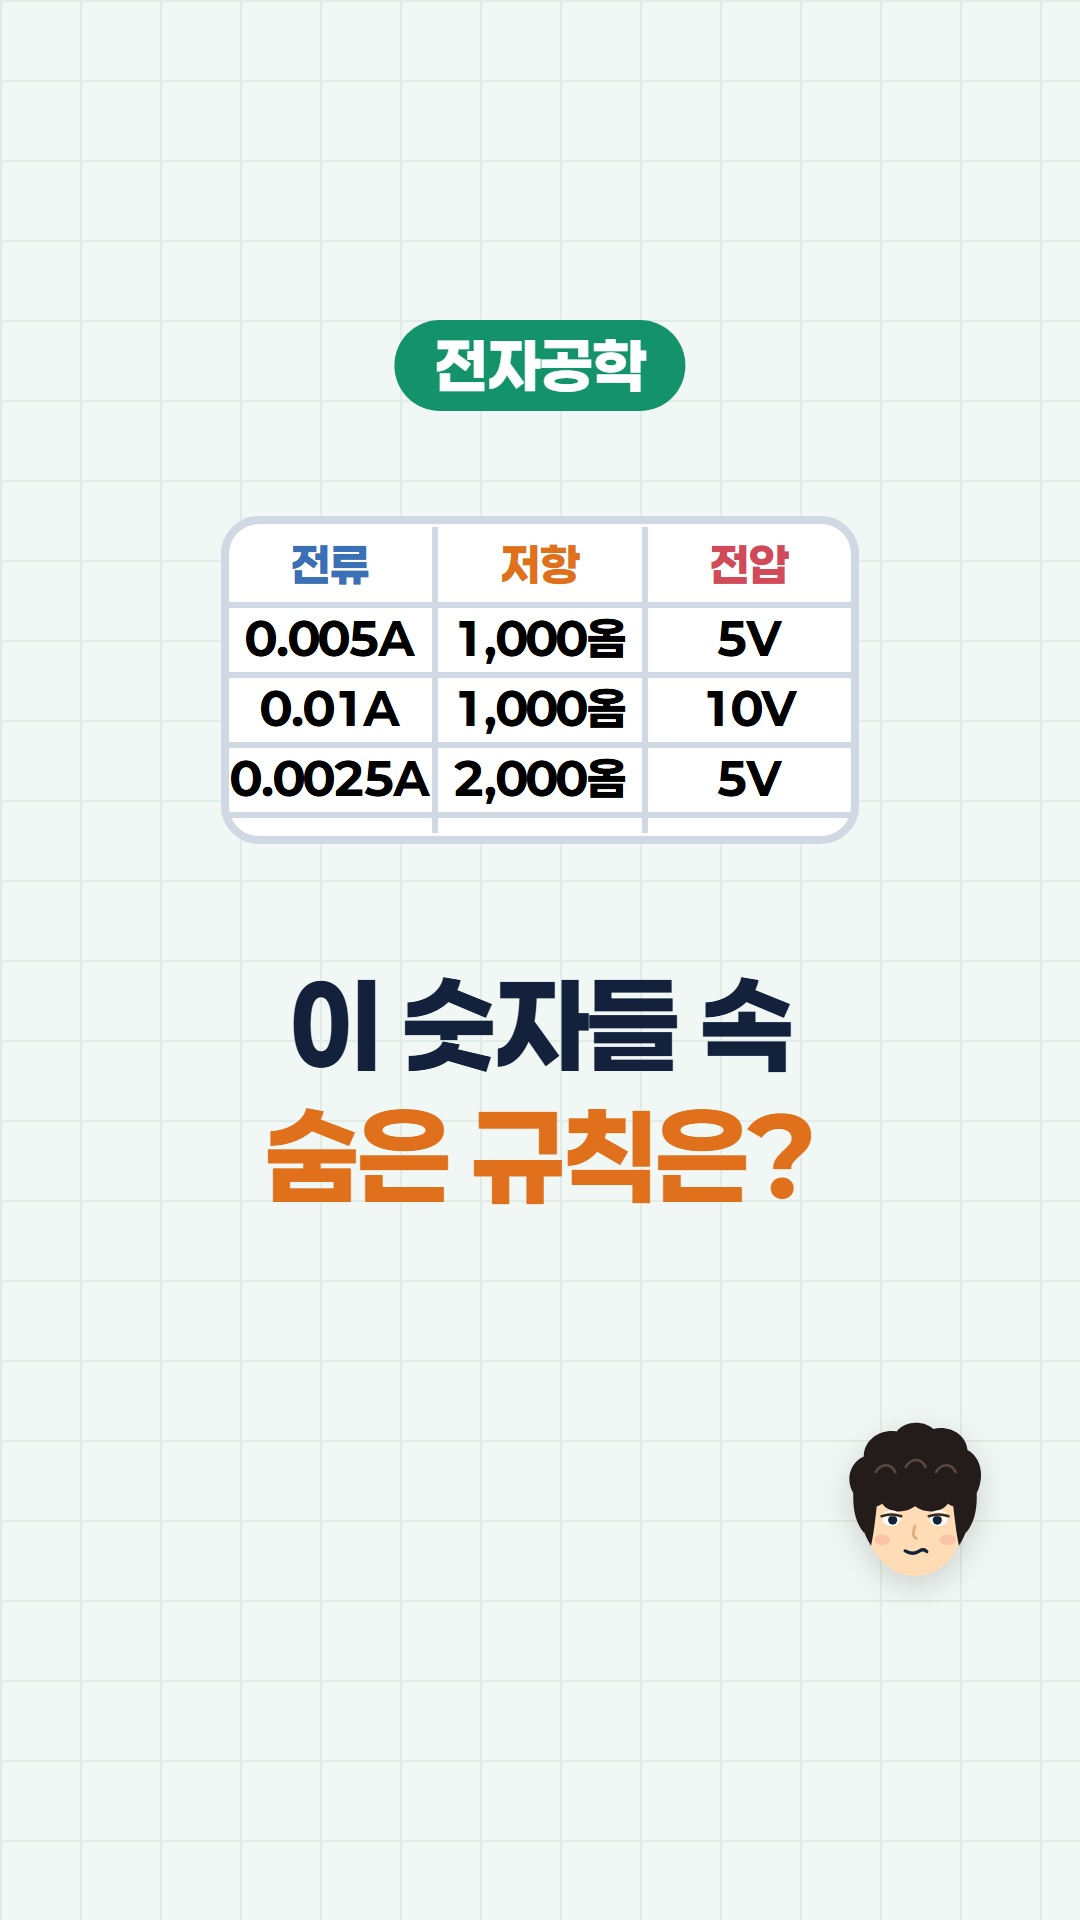
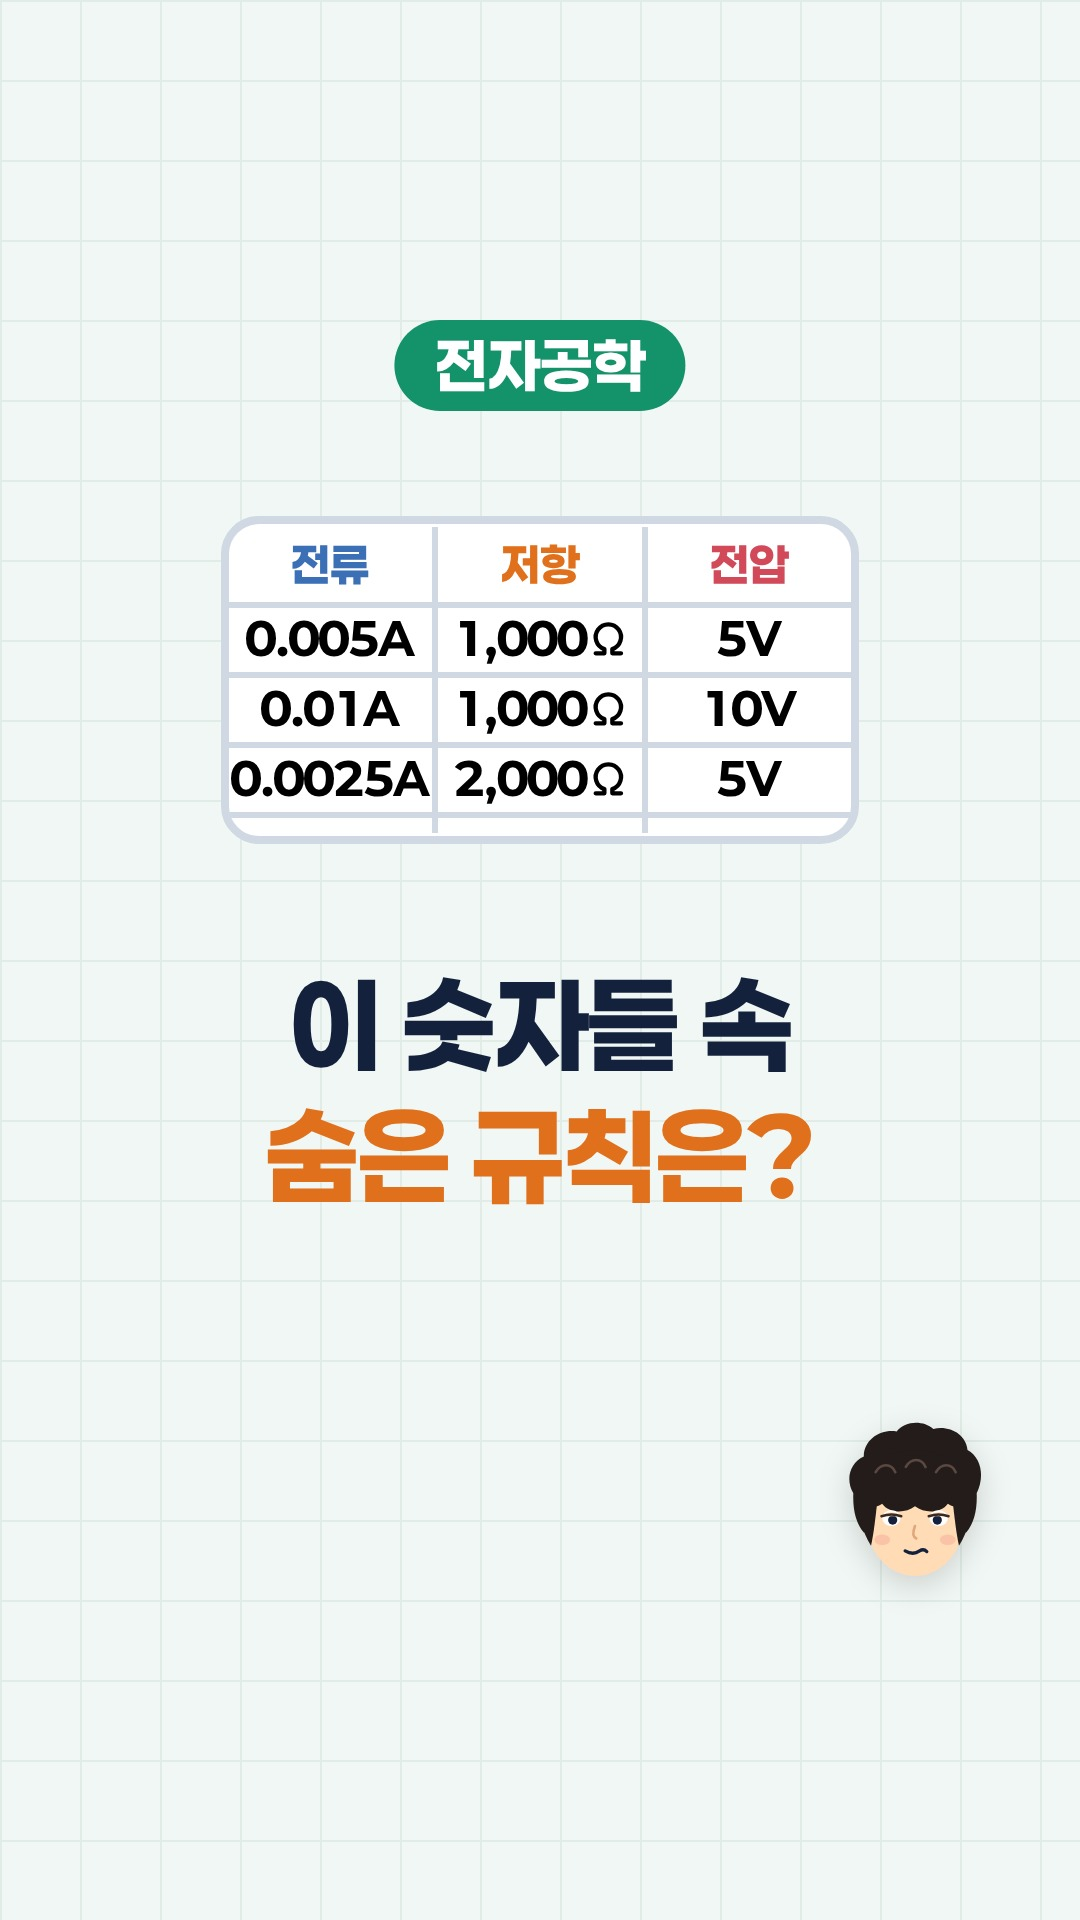
업로드 도구: 채널 홈 섹션 순서 자동 맞춤(--섹션), 120 화면·쇼츠 옴 기호 소문자 kΩ, 썸네일 갱신
Claude-Session: https://claude.ai/code/session_01DR6nsVqmKKmMzArsii1Tyf

diff --git a/tools/video/youtube_upload.py b/tools/video/youtube_upload.py
@@ -5,7 +5,8 @@
   설명 안의 {long} 같은 표시는 앞서 올린 영상 주소로 바뀐다(쇼츠 설명에 롱폼 주소 넣기).
 - 결과(영상 ID·주소)는 같은 파일의 "결과"에 적는다. 이미 올린 키는 다시 올리지 않는다.
 - "썸네일": jpg 경로를 주면 롱폼에 넣는다(채널 인증 필요, 2MB 이하).
-- "재생목록": 강좌 폴더 이름을 주면 과목 재생목록(예: 인공지능)에 강좌 번호 순서로 넣는다(롱폼만).
+- "재생목록": 강좌 폴더 이름을 주면 과목 재생목록(예: 인공지능)에 강좌 번호 순서로 넣는다(롱폼만). 넣은 뒤 채널 홈 섹션 순서도 맞춘다(arrange_sections).
+- 채널 홈 섹션 순서만 맞추기: python3 tools/video/youtube_upload.py --섹션
 - "설명"을 고치고 다시 돌리면 올린 영상의 설명만 바뀐다. "댓글"이 있으면 영상마다 한 번 댓글을 단다(고정은 스튜디오에서 직접).
 - AI 사용 표시(containsSyntheticMedia)는 업로드 때 켠다. GET 응답에는 이 값이 안 나오므로, 나중에 status를 PUT할 때는 반드시 containsSyntheticMedia: true를 함께 보낸다(빠뜨리면 꺼질 수 있음).
 - "공개": "지금"이면 올리자마자 공개, "2026-11-06T10:00:00Z" 같은 시각이면 그때 공개되게 예약, 없으면 비공개.
@@ -144,6 +145,56 @@ def playlist_place(folder_name, vid):
     return pl["id"], pos
 
 
+SUBJECT_ORDER = ["인공지능", "전자공학", "생활 기기", "전자 부품"]   # 채널 홈 과목 섹션 순서(팀장님 2026-11-10). 새 과목은 재생목록.json에 생긴 순서대로 이 뒤에
+
+
+def arrange_sections():
+    """채널 홈 섹션 순서 맞추기(팀장님 2026-11-14 「재생목록 만들 때 위치까지 보정」).
+    과목 재생목록 섹션을 SUBJECT_ORDER 순으로 맨 위에, 그 뒤에 동영상(recentUploads)·Shorts 등 나머지를 원래 순서로.
+    공개된 과목 재생목록인데 섹션이 없으면 새로 만든다(새 섹션은 맨 아래에 생기므로 바로 이어서 순서를 맞춤).
+    맨 위 소개 영상(채널 예고편)은 섹션 목록 밖이라 건드리지 않는다."""
+    reg = json.load(open(PL_REG, encoding="utf-8")) if os.path.exists(PL_REG) else {}
+    subjects = [x for x in SUBJECT_ORDER if x in reg] + [x for x in reg if x not in SUBJECT_ORDER]
+    pl_of = {reg[x]["id"]: x for x in subjects}
+    items = api("GET", "channelSections?part=snippet,contentDetails&mine=true").get("items", [])
+    have = {tuple(it.get("contentDetails", {}).get("playlists") or []) for it in items}
+    for subj in subjects:
+        pid = reg[subj]["id"]
+        if (pid,) in have:
+            continue
+        st = api("GET", f"playlists?part=status&id={pid}").get("items", [])
+        if st and st[0]["status"]["privacyStatus"] == "public":
+            api("POST", "channelSections?part=snippet,contentDetails",
+                {"snippet": {"type": "singlePlaylist", "style": "horizontalRow"}, "contentDetails": {"playlists": [pid]}})
+            print("채널 홈 섹션 새로 만듦:", subj)
+            items = api("GET", "channelSections?part=snippet,contentDetails&mine=true").get("items", [])
+    def subj_of(it):
+        ps = it.get("contentDetails", {}).get("playlists") or []
+        return pl_of.get(ps[0]) if len(ps) == 1 else None
+    items.sort(key=lambda it: it["snippet"].get("position", 0))
+    want = [it for s in subjects for it in items if subj_of(it) == s] + [it for it in items if subj_of(it) is None]
+    for pos, it in enumerate(want):
+        if it["snippet"].get("position") == pos:
+            continue
+        sn = {"type": it["snippet"]["type"], "position": pos}
+        for key in ("title", "style"):
+            if it["snippet"].get(key):
+                sn[key] = it["snippet"][key]
+        body = {"id": it["id"], "snippet": sn}
+        if it.get("contentDetails"):
+            body["contentDetails"] = it["contentDetails"]
+        try:
+            api("PUT", "channelSections?part=snippet,contentDetails", body)
+        except SystemExit as e:                     # Shorts 같은 종류는 API로 못 옮길 수 있음: 과목 섹션만 맞으면 됨
+            print("섹션 이동 못 함:", it["snippet"]["type"], str(e)[:120])
+    time.sleep(3)
+    now = api("GET", "channelSections?part=snippet,contentDetails&mine=true").get("items", [])
+    now.sort(key=lambda it: it["snippet"].get("position", 0))
+    order = [subj_of(it) or it["snippet"]["type"] for it in now]
+    print("채널 홈 섹션 순서:", " → ".join(order))
+    return order
+
+
 def main():
     plan_path = sys.argv[1]
     plan = json.load(open(plan_path, encoding="utf-8"))
@@ -196,6 +247,7 @@ def main():
         if v.get("재생목록") and not r.get("재생목록"):      # 과목 재생목록에 강좌 번호 순서로 넣기
             pid, pos = playlist_place(v["재생목록"], r["id"])
             r["재생목록"] = pid; print(k, f"재생목록에 넣음(자리 {pos})")
+            arrange_sections()                             # 새 재생목록·섹션이 생겨도 채널 홈 순서를 바로 맞춤
             json.dump(plan, open(plan_path, "w", encoding="utf-8"), ensure_ascii=False, indent=1)
             import subprocess                              # 블로그 글 끝에 이 영상 링크 넣기(세 곳 연결)
             subprocess.run([sys.executable, os.path.join(os.path.dirname(os.path.dirname(os.path.abspath(__file__))), "blogger.py"), "links", v["재생목록"]])
@@ -211,4 +263,7 @@ def main():
 
 
 if __name__ == "__main__":
-    main()
+    if sys.argv[1:] == ["--섹션"]:
+        arrange_sections()
+    else:
+        main()
